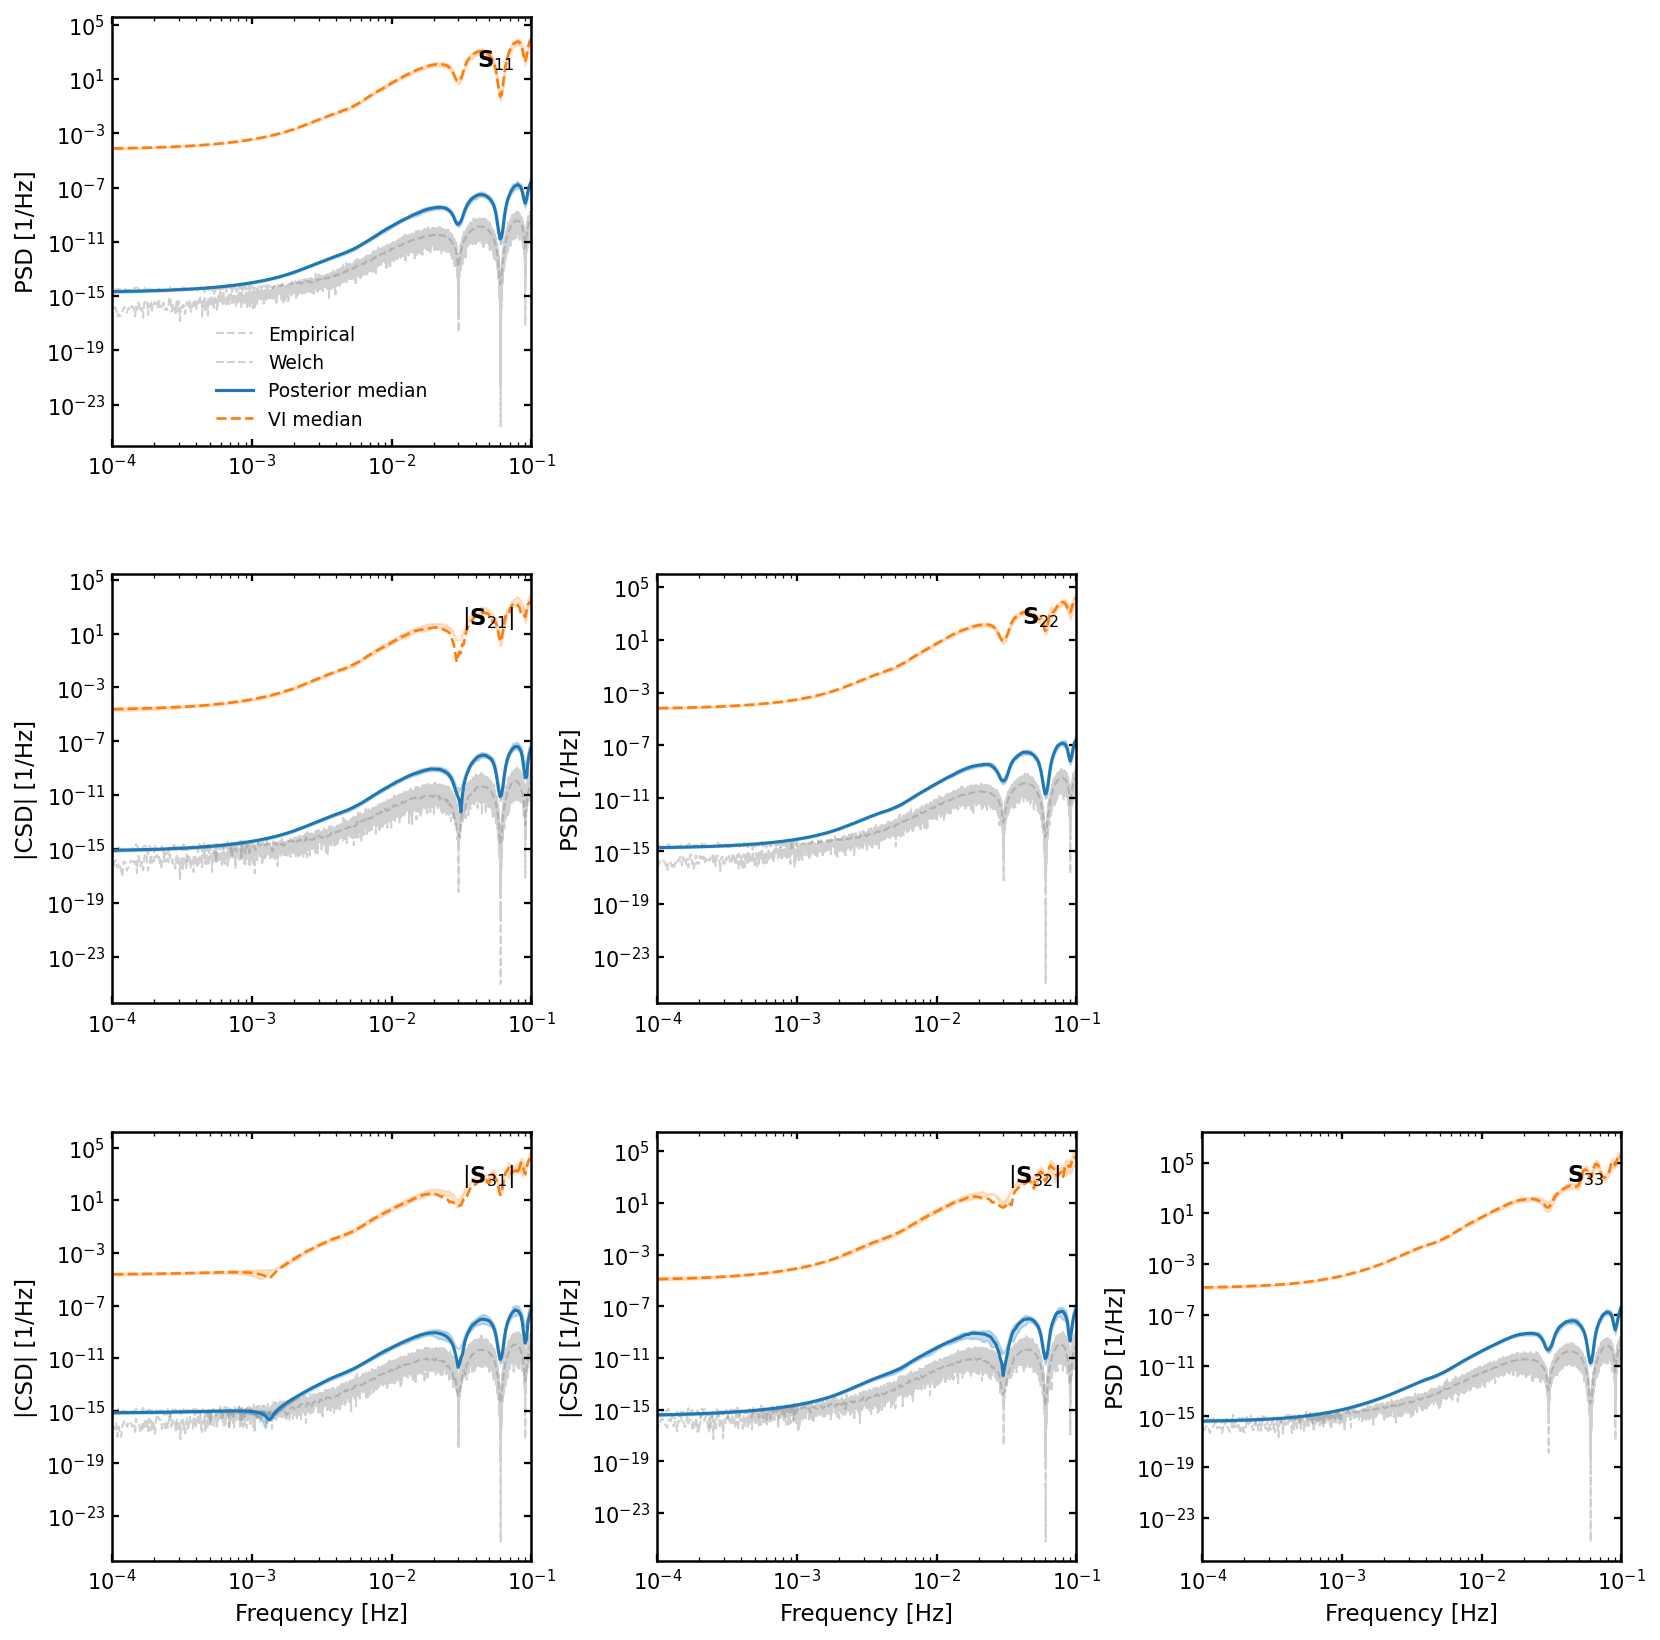
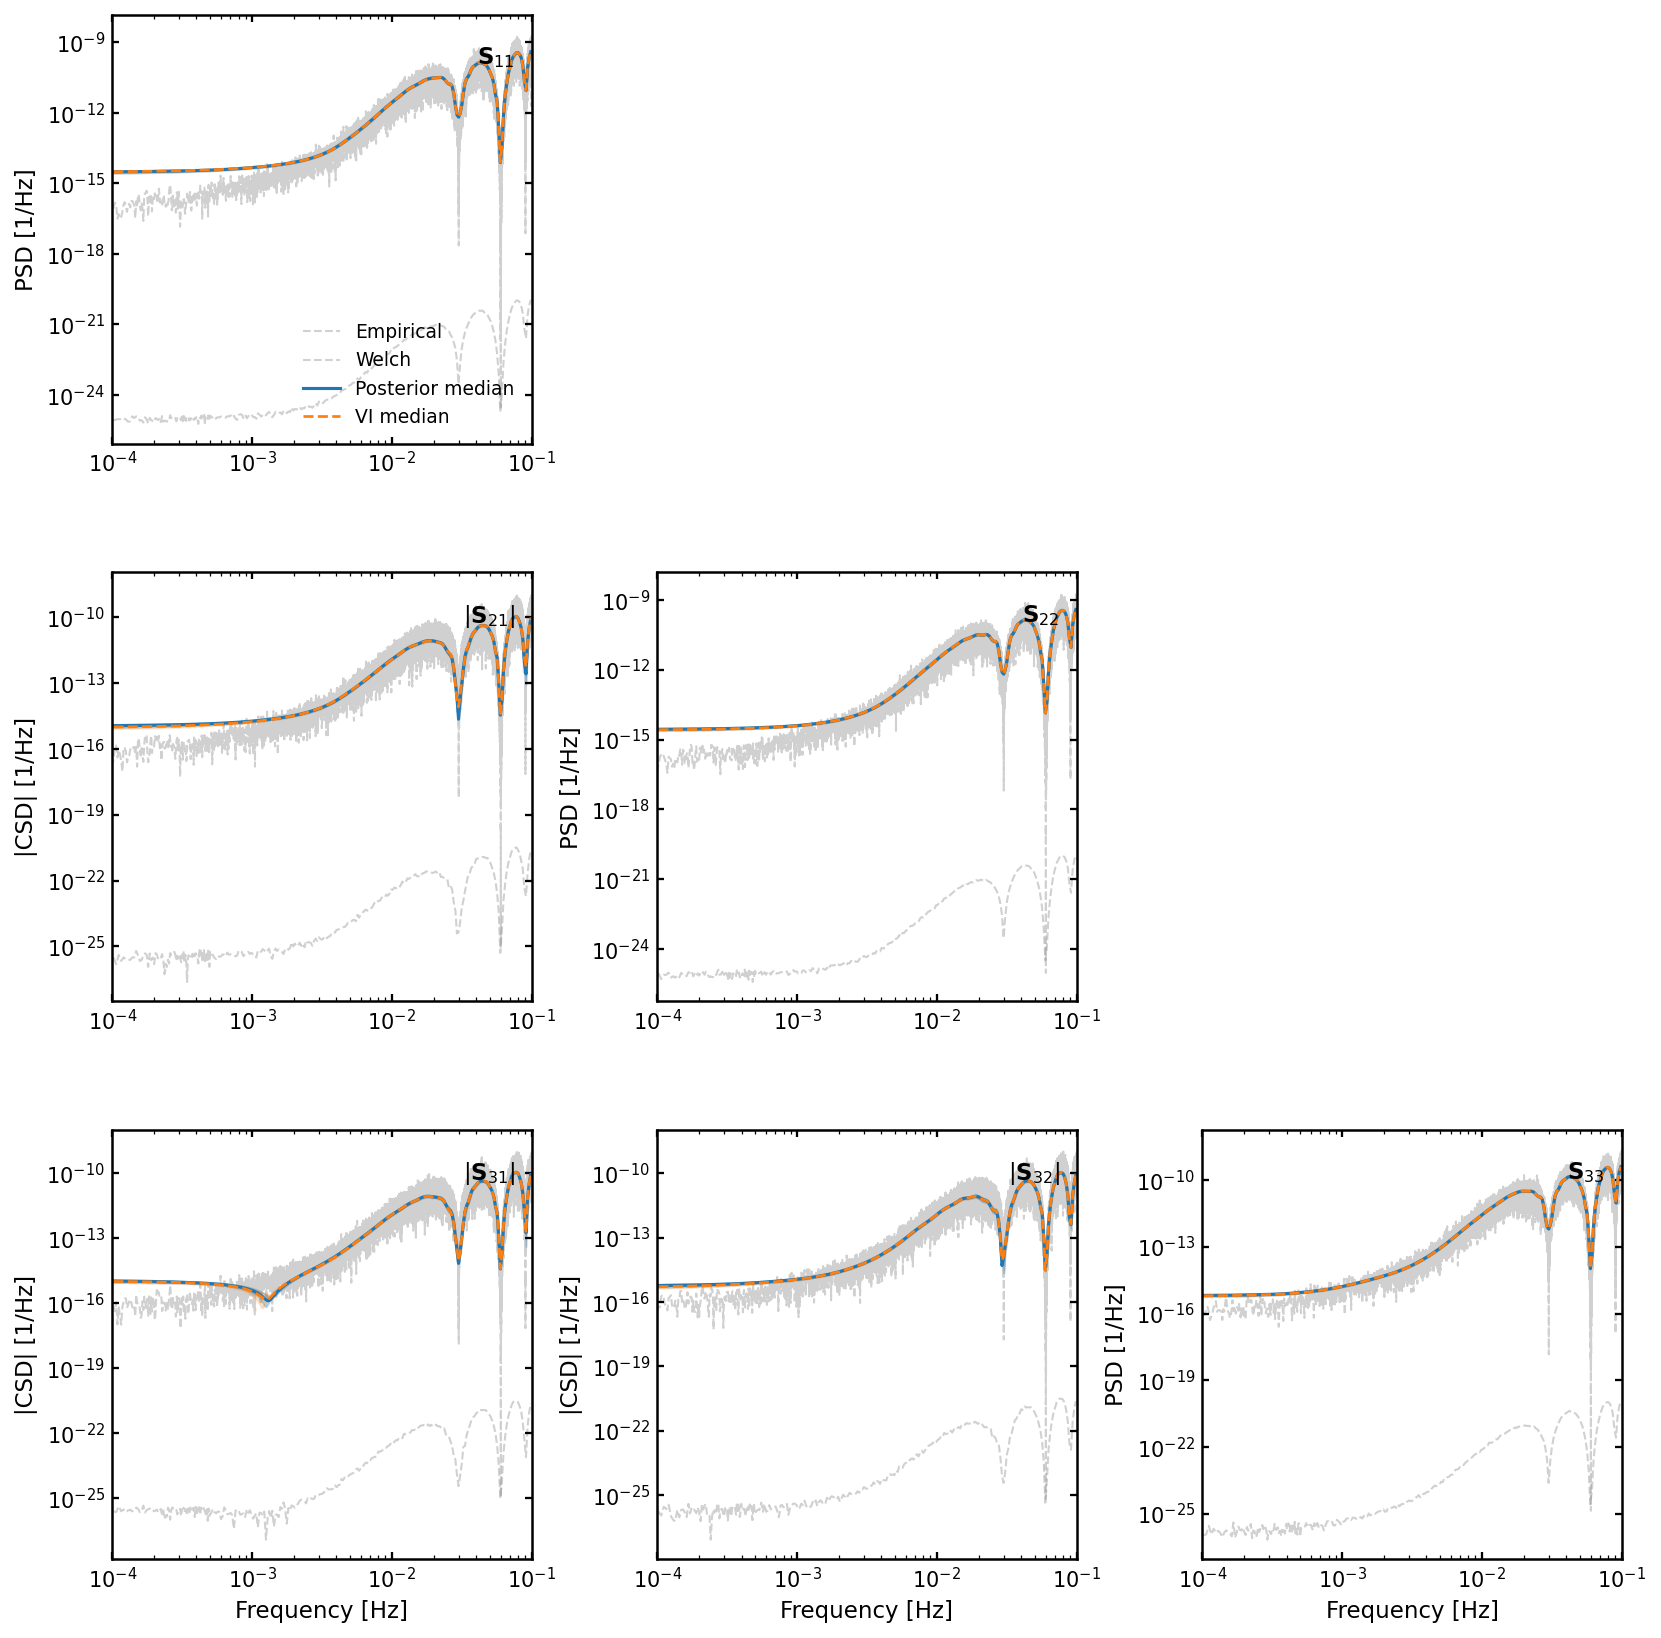
refactor: streamline imports and improve frequency handling in VARMAData; update tests for frequency validation

diff --git a/src/log_psplines/example_datasets/varma_data.py b/src/log_psplines/example_datasets/varma_data.py
@@ -39,7 +39,8 @@ class VARMAData:
         self.n_freq_samples = n_samples // 2
 
         self.fs = float(fs)
-        self.freq = np.fft.rfftfreq(n_samples, d=1 / self.fs)[1:]
+        # Frequency grid in Hz (drop the DC bin to match PSD plotting expectations)
+        self.freq = np.fft.rfftfreq(n_samples, d=1.0 / self.fs)[1:]
         self.time = np.arange(n_samples) / self.fs
         self.data = None  # set in "resimulate"
         self.periodogram = None  # set in "resimulate"
@@ -150,7 +151,7 @@ class VARMAData:
         dim = self.dim
         periodogram = self.get_periodogram()
         true_psd = self.get_true_psd()
-        freq = self.freq
+        freq_hz = self.freq
         # Setup axes
         if axs is None:
             fig, axs = plt.subplots(
@@ -165,13 +166,13 @@ class VARMAData:
                 ax = axs[i, j]
                 if i == j:
                     ax.plot(
-                        freq,
+                        freq_hz,
                         true_psd[:, i, i].real,
                         label="True PSD",
                         **true_kwgs,
                     )
                     ax.plot(
-                        freq,
+                        freq_hz,
                         periodogram[:, i, i].real,
                         label="Periodogram",
                         **data_kwgs,
@@ -180,13 +181,13 @@ class VARMAData:
                     ax.set_yscale("log")
                 elif i > j:
                     ax.plot(
-                        freq,
+                        freq_hz,
                         true_psd[:, i, j].real,
                         label="True Re(CSD)",
                         **true_kwgs,
                     )
                     ax.plot(
-                        freq,
+                        freq_hz,
                         periodogram[:, i, j].real,
                         label="Periodogram Re(CSD)",
                         **data_kwgs,
@@ -194,13 +195,13 @@ class VARMAData:
                     ax.set_title(f"Re(CSD): {i + 1},{j + 1}")
                 else:
                     ax.plot(
-                        freq,
+                        freq_hz,
                         true_psd[:, i, j].imag,
                         label="True Im(CSD)",
                         **true_kwgs,
                     )
                     ax.plot(
-                        freq,
+                        freq_hz,
                         periodogram[:, i, j].imag,
                         label="Periodogram Im(CSD)",
                         **data_kwgs,
@@ -218,7 +219,7 @@ class VARMAData:
 
 
 def _calculate_true_varma_psd(
-    freqs: np.ndarray,
+    freqs_hz: np.ndarray,
     dim: int,
     var_coeffs: np.ndarray,
     vma_coeffs: np.ndarray,
@@ -231,17 +232,26 @@ def _calculate_true_varma_psd(
     Calculate the spectral matrix for given frequencies.
 
     Args:
-        freqs (np.ndarray): Positive frequency grid in Hz.
+        freqs_hz (np.ndarray): Positive frequency grid in Hz.
         dim (int): Process dimension.
         var_coeffs/vma_coeffs: VAR/MA coefficient arrays.
         sigma (np.ndarray): Innovation covariance matrix.
         fs (float): Sampling frequency in Hz.
 
     Returns:
-        np.ndarray: One-sided PSD matrix evaluated at ``freqs``.
+        np.ndarray: One-sided PSD matrix evaluated at ``freqs_hz``.
     """
-    omega = 2.0 * np.pi * freqs / fs
-    spec_matrix = np.empty((freqs.size, dim, dim), dtype=np.complex128)
+    freqs_hz = np.asarray(freqs_hz, dtype=np.float64)
+    if freqs_hz.size:
+        nyquist = fs / 2.0
+        if freqs_hz.max() > nyquist + 1e-12:
+            raise ValueError(
+                "Frequency grid should be in Hz (0 .. fs/2). "
+                "Angular-frequency input detected."
+            )
+
+    omega = 2.0 * np.pi * freqs_hz / fs  # radians per sample
+    spec_matrix = np.empty((freqs_hz.size, dim, dim), dtype=np.complex128)
     for idx, w in enumerate(omega):
         spec_matrix[idx] = _calculate_spec_matrix_helper(
             float(w), dim, var_coeffs, vma_coeffs, sigma
@@ -249,7 +259,7 @@ def _calculate_true_varma_psd(
 
     # Convert to one-sided PSD: double positive frequencies except Nyquist
     psd = (2.0 * spec_matrix) / fs
-    if freqs.size and np.isclose(freqs[-1], fs / 2.0):
+    if freqs_hz.size and np.isclose(freqs_hz[-1], fs / 2.0):
         psd[-1] *= 0.5
     if channel_stds is not None and scaling_factor not in (None, 0):
         scale_matrix = np.outer(channel_stds, channel_stds) / float(

diff --git a/docs/studies/lisa/lisa_multivar.py b/docs/studies/lisa/lisa_multivar.py
@@ -7,13 +7,9 @@ os.environ["XLA_FLAGS"] = "--xla_force_host_platform_device_count=4"
 import jax
 import numpy as np
 
-from log_psplines.coarse_grain import (
-    CoarseGrainConfig,
-    coarse_grain_multivar_fft,
-    compute_binning_structure,
-)
+from log_psplines.coarse_grain import CoarseGrainConfig
 from log_psplines.datatypes import MultivariateTimeseries
-from log_psplines.datatypes.multivar import EmpiricalPSD, _get_coherence
+from log_psplines.datatypes.multivar import EmpiricalPSD
 from log_psplines.example_datasets.lisa_data import (
     LISAData,
     covariance_matrix,
@@ -61,11 +57,7 @@ if remainder != 0:
     t_full = t_full[:-n_trim]
     y_full = y_full[:-n_trim]
 
-t = t_full
-raw_series = MultivariateTimeseries(y=y_full, t=t)
-standardized_ts = raw_series.standardise_for_psd()
-
-n = raw_series.y.shape[0]
+n = y_full.shape[0]
 n_blocks = desired_blocks
 n_inside_block = n // n_blocks
 logger.info(
@@ -75,14 +67,6 @@ logger.info(
 
 FMIN, FMAX = 10**-4, 10**-1
 
-fft_data = standardized_ts.to_wishart_stats(
-    n_blocks=n_blocks,
-    fmin=FMIN,
-    fmax=FMAX,
-)
-logger.info(fft_data)
-
-freqs = np.asarray(fft_data.freq)
 coarse_cfg = CoarseGrainConfig(
     enabled=True,
     f_transition=5 * 10**-4,
@@ -91,24 +75,11 @@ coarse_cfg = CoarseGrainConfig(
     f_max=FMAX,
 )
 
-# Build an explicit coarse-grained FFT on the same grid that the sampler sees.
-spec = compute_binning_structure(
-    freqs,
-    f_transition=coarse_cfg.f_transition,
-    n_log_bins=coarse_cfg.n_log_bins,
-    f_min=coarse_cfg.f_min,
-    f_max=coarse_cfg.f_max,
-)
-fft_coarse, freq_weights = coarse_grain_multivar_fft(fft_data, spec)
-logger.info(fft_coarse)
+raw_series = MultivariateTimeseries(y=y_full, t=t_full)
 
-dt = t[1] - t[0]
+dt = t_full[1] - t_full[0]
 fs = 1.0 / dt
-fmin_full = 1.0 / (len(t) * dt)
-Spm_data, Sop_data = lisa_link_noises_ldc(freqs, fs=fs, fmin=fmin_full)
-diag_data, csd_data = tdi2_psd_and_csd(freqs, Spm_data, Sop_data)
-true_psd_physical_data = covariance_matrix(diag_data, csd_data)
-true_psd_standardized_data = true_psd_physical_data
+fmin_full = 1.0 / (len(t_full) * dt)
 
 idata = None
 
@@ -121,7 +92,7 @@ if RESULT_FN.exists() and REUSE_EXISTING:
 else:
     logger.info(f"No existing {RESULT_FN} found, running inference...")
     idata = run_mcmc(
-        data=fft_coarse,
+        data=raw_series,
         sampler="multivar_blocked_nuts",
         n_samples=1500,
         n_warmup=1500,
@@ -132,6 +103,8 @@ else:
         knot_kwargs=dict(strategy="log"),
         outdir=str(RESULTS_DIR),
         verbose=True,
+        coarse_grain_config=coarse_cfg,
+        n_time_blocks=n_blocks,
         fmin=FMIN,
         fmax=FMAX,
         alpha_delta=ALPHA_DELTA,
@@ -160,27 +133,16 @@ diag_true, csd_true = tdi2_psd_and_csd(freq_plot, Spm_plot, Sop_plot)
 true_psd_physical = covariance_matrix(diag_true, csd_true)
 true_psd_standardized = true_psd_physical
 
-# Empirical PSD on the *coarse Wishart grid* (what the likelihood fits)
-if fft_coarse.raw_psd is not None:
-    psd_array = np.asarray(fft_coarse.raw_psd)
-    empirical_wishart = EmpiricalPSD(
-        freq=np.asarray(fft_coarse.freq),
-        psd=psd_array,
-        coherence=_get_coherence(psd_array),
-    )
-else:
-    empirical_wishart = fft_coarse.empirical_psd
-
 # Traditional Welch-style empirical PSD on the original (unstandardised) data
 empirical_welch = EmpiricalPSD.from_timeseries_data(
-    data=raw_series.y,
-    fs=raw_series.fs,
+    data=y_full,
+    fs=fs,
 )
 
 plot_psd_matrix(
     idata=idata,
     freq=freq_plot,
-    empirical_psd=empirical_wishart,
+    empirical_psd=None,  # will be extracted from idata.observed_data
     extra_empirical_psd=[empirical_welch],
     extra_empirical_labels=["Welch"],
     outdir=str(RESULTS_DIR),

diff --git a/src/log_psplines/arviz_utils/to_arviz.py b/src/log_psplines/arviz_utils/to_arviz.py
@@ -325,7 +325,7 @@ def _create_multivar_inference_data(
             )
         scale_matrix = np.outer(channel_stds, channel_stds).astype(np.float32)
         factor_matrix = scale_matrix
-        factor_4d = scale_matrix[None, None, :, :]
+        factor_4d = factor_matrix[None, None, :, :]
         psd_real_q_rescaled = psd_real_q * factor_4d
         psd_imag_q_rescaled = psd_imag_q * factor_4d
     else:
@@ -349,6 +349,9 @@ def _create_multivar_inference_data(
     raw_psd = getattr(fft_data, "raw_psd", None)
     if raw_psd is not None:
         observed_csd = np.asarray(raw_psd, dtype=np.complex128)
+        # raw_psd already has scaling_factor applied, so remove it before rescaling
+        if channel_stds is not None:
+            observed_csd = observed_csd / sf
     elif fft_data.u_re is not None and fft_data.u_im is not None:
         u_re = np.asarray(fft_data.u_re, dtype=np.float64)
         u_im = np.asarray(fft_data.u_im, dtype=np.float64)
@@ -368,6 +371,9 @@ def _create_multivar_inference_data(
             scaling_factor=float(getattr(fft_data, "scaling_factor", 1.0)),
             weights=weights,
         )
+        # wishart_u_to_psd already has scaling_factor applied, so remove it before rescaling
+        if channel_stds is not None:
+            observed_csd = observed_csd / sf
     else:
         y_re = observed_fft_re_rescaled
         y_im = observed_fft_im_rescaled
@@ -381,7 +387,7 @@ def _create_multivar_inference_data(
         # Keep complex form for consistency
 
     if channel_stds is not None and factor_matrix is not None:
-        observed_csd = observed_csd * (factor_matrix[None, :, :] / sf)
+        observed_csd = observed_csd * factor_matrix[None, :, :]
     else:
         observed_csd = observed_csd * scalar_factor
 

diff --git a/tests/test_example_datasets.py b/tests/test_example_datasets.py
@@ -1,6 +1,7 @@
 import os
 
 import matplotlib.pyplot as plt
+import numpy as np
 
 from log_psplines.example_datasets.ar_data import ARData
 from log_psplines.example_datasets.lvk_data import LVKData
@@ -42,8 +43,25 @@ def test_lvk_data(outdir):
 def test_varma_data(outdir):
     outdir = f"{outdir}/{OUT}"
     os.makedirs(outdir, exist_ok=True)
-    varma_data = VARMAData()
+    varma_data = VARMAData(n_samples=512, fs=64.0, seed=0)
     varma_data.plot(fname=f"{outdir}/varma_data_analysis.png")
+    freq_hz = np.asarray(varma_data.freq)
+
+    # Frequency axis should live in Hz up to the Nyquist frequency
+    assert np.all(freq_hz > 0)
+    assert np.isclose(freq_hz.max(), varma_data.fs / 2.0)
+    np.testing.assert_allclose(np.diff(freq_hz), freq_hz[0])
+
+    # True PSD should integrate to the channel variances (within sampling noise)
+    psd = varma_data.get_true_psd()
+    psd_vars = np.array(
+        [
+            np.trapezoid(psd[:, i, i].real, freq_hz)
+            for i in range(varma_data.dim)
+        ]
+    )
+    empirical_vars = np.var(varma_data.data, axis=0)
+    np.testing.assert_allclose(psd_vars, empirical_vars, rtol=0.1)
 
 
 def test_lisa_data(outdir):

diff --git a/src/log_psplines/samplers/multivar/multivar_base.py b/src/log_psplines/samplers/multivar/multivar_base.py
@@ -179,11 +179,10 @@ class MultivarBaseSampler(BaseSampler):
 
     def _rescale_psd(self, psd: np.ndarray) -> np.ndarray:
         channel_stds = getattr(self.fft_data, "channel_stds", None)
-        sf = float(self.fft_data.scaling_factor or 1.0)
-        if channel_stds is None or sf == 0.0:
+        if channel_stds is None:
             return psd
         scale_matrix = np.outer(channel_stds, channel_stds).astype(psd.dtype)
-        return psd * (scale_matrix / sf)
+        return psd * scale_matrix
 
     def _save_vi_diagnostics(
         self, *, empirical_psd: Optional[EmpiricalPSD] = None

diff --git a/src/log_psplines/samplers/vi_init/adapters.py b/src/log_psplines/samplers/vi_init/adapters.py
@@ -426,9 +426,7 @@ def prepare_block_vi(
     if channel_stds is not None:
         channel_stds = np.asarray(channel_stds, dtype=np.float32)
         scale_matrix = np.outer(channel_stds, channel_stds).astype(np.float32)
-        # Match multivariate rescaling used in samplers/arviz: undo global
-        # standardisation via ``scaling_factor`` and restore per-channel units.
-        factor_matrix = scale_matrix / scaling
+        factor_matrix = scale_matrix
         scalar_factor = None
     else:
         factor_matrix = None
